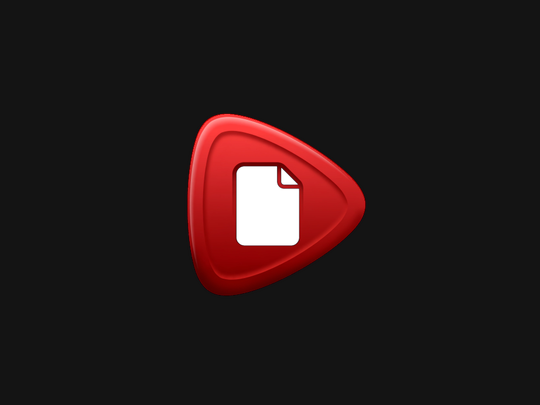
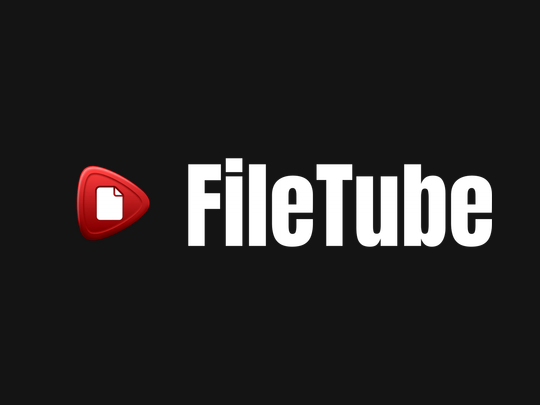
roku: on-device fix round — registry persistence, captions, real branding
Dean's first on-device pass: sideload, login, thumbnails, playback, and
resume all worked — but the server address never persisted across
relaunches (username did). Root cause is a BrightScript trap: AA keys
set via literals are stored LOWERCASED while the Roku registry is
case-sensitive, so FT_RegistryWrite stored "serverurl" and
FT_RegistryRead asked for "serverUrl". Registry keys are now lowercase
everywhere; existing devices pick up their already-written values with
no re-entry.

Also: sidecar captions (server already serves WebVTT at
/api/subtitles/:id; SubtitleTracks on the content node, toggled via
* > Closed Captions), and the channel branding is now Dean's real
lockup — mark + "FileTube" in Anton — replacing the improvised
YouTube-style boxed wordmark.

Known limitation disclosed in README: Roku ignores MP4 rotation
metadata, so phone videos play sideways; server-side rotation-aware
transcode flagging is earmarked for v1.47.

Delta-reviewed: APPROVE (registry reasoning, SubtitleTracks shape, and
the server caption contract verified against server.js).

Changed region(s): [[0.3259, 0.2667, 0.9185, 0.7407], [0.1185, 0.3852, 0.2963, 0.5926]]

diff --git a/roku/README.md b/roku/README.md
@@ -53,6 +53,11 @@ Press `Ctrl+]` then `quit` to leave. SceneGraph warnings appear on port 8089.
   audio containers (`.ogg`, `.flac`, `.wav`) may not play on all Roku models.
 - **Resume is read-only**: playback starts where the web player left off, but
   the channel does not report watch progress back to the server.
+- **Captions**: items with a subtitle sidecar (`hasSubtitles`) expose a
+  captions track — toggle with the * (Options) button > Closed Captions.
+- **Phone videos may play sideways**: Roku's Video node ignores the MP4
+  rotation flag that browsers honor. The fix is server-side (bake rotation
+  into the transcoded rendition) and is planned for the v1.47 release.
 - `https://` addresses use the Roku's built-in CA bundle — a self-signed
   certificate will not work; use plain `http://` on the LAN instead.
 - Password characters may be visible on screen while typing (Roku keyboard).
